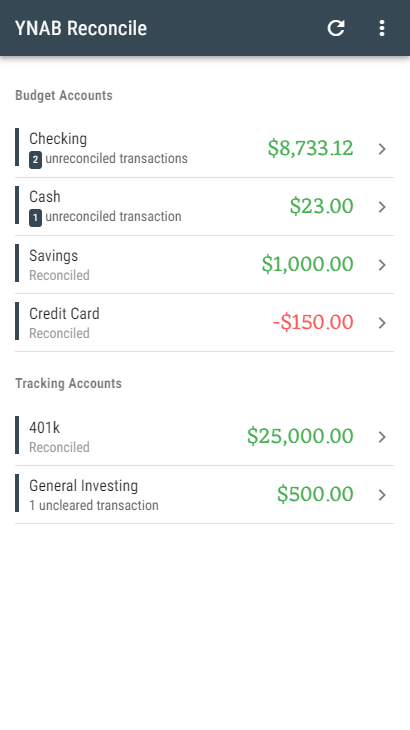
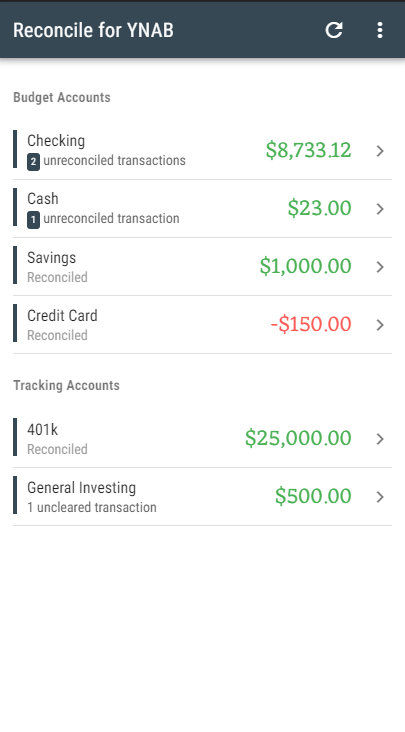
Change app name to "Reconcile for YNAB"
To follow OAuth app requirements regarding Attribution & Intellectual Property on https://api.youneedabudget.com/#terms

diff --git a/src/App.vue b/src/App.vue
@@ -2,7 +2,7 @@
   <div class="page-container">
     <md-app md-mode="fixed" id="app">
       <md-app-toolbar class="md-primary">
-        <span class="md-title" @click="onHeaderClick">YNAB Reconcile</span>
+        <span class="md-title" @click="onHeaderClick">Reconcile for YNAB</span>
         <div v-if="store.isLoggedIn()"
           class="md-toolbar-section-end">
           <md-button @click="refresh" class="md-icon-button">

diff --git a/src/views/Login.vue b/src/views/Login.vue
@@ -13,7 +13,7 @@
     </div>
     <span>
       Made with <md-icon class="md-accent">favorite</md-icon>,
-      code on <a href="https://github.com/JesseEmond/ynab-reconcile" class="md-accent">GitHub</a>
+      code on <a href="https://github.com/JesseEmond/reconcile-for-ynab" class="md-accent">GitHub</a>
     </span>
   </div>
 </template>

diff --git a/src/views/Privacy.vue b/src/views/Privacy.vue
@@ -17,7 +17,8 @@
         Back to Login
       </md-button>
     <span>
-      View source on <a href="https://github.com/JesseEmond/ynab-reconcile" class="md-accent">GitHub</a>
+      View source on
+      <a href="https://github.com/JesseEmond/reconcile-for-ynab" class="md-accent">GitHub</a>
     </span>
   </div>
 </template>

diff --git a/vue.config.js b/vue.config.js
@@ -9,6 +9,6 @@ module.exports = {
     }
   },
   publicPath: process.env.NODE_ENV === 'production'
-    ? '/ynab-reconcile/'
+    ? '/reconcile-for-ynab/'
     : '/',
 }

diff --git a/README.md b/README.md
@@ -1,4 +1,4 @@
-# ynab-reconcile
+# Reconcile for YNAB
 
 Faciliate account reconciliation, especially on mobile. Quickly mark YNAB transactions to reconcile and edit the final balance, and the it will create a reconciliation transaction for you.
 
